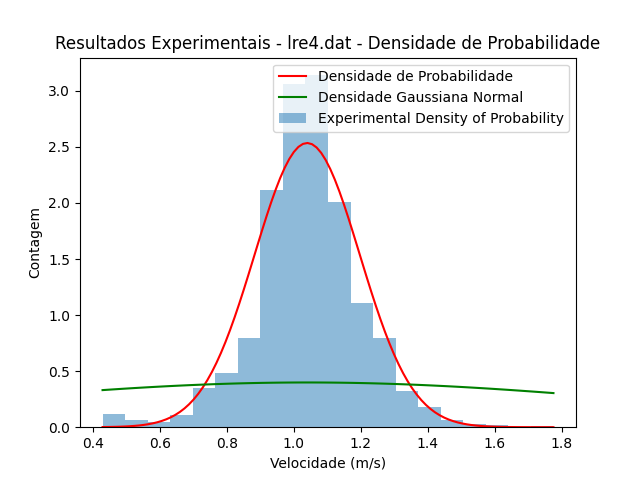
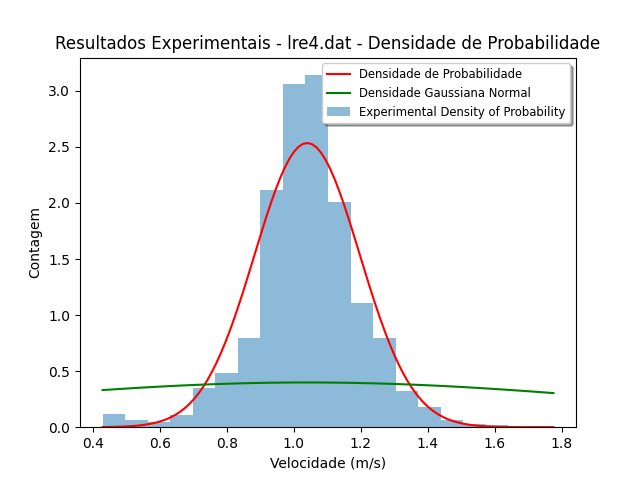
changed location of legend

Changed region(s): [[0.4375, 0.125, 0.9062, 0.2812]]

diff --git a/output_fn.py b/output_fn.py
@@ -43,7 +43,8 @@ def plot_density_probability(experimental_data, filename):
     plt.xlabel('Velocidade (m/s)')
     plt.ylabel('Contagem')
     plt.title(f'Resultados Experimentais - {filename} - Densidade de Probabilidade')
-    plt.legend()
+    plt.legend(loc='upper right', shadow=True, ncol=1, fontsize = 'small')
+    #plt.tight_layout()
     plt.savefig(f'images/plots/{filename}_density_probability_plot.png')
     plt.close()
 
